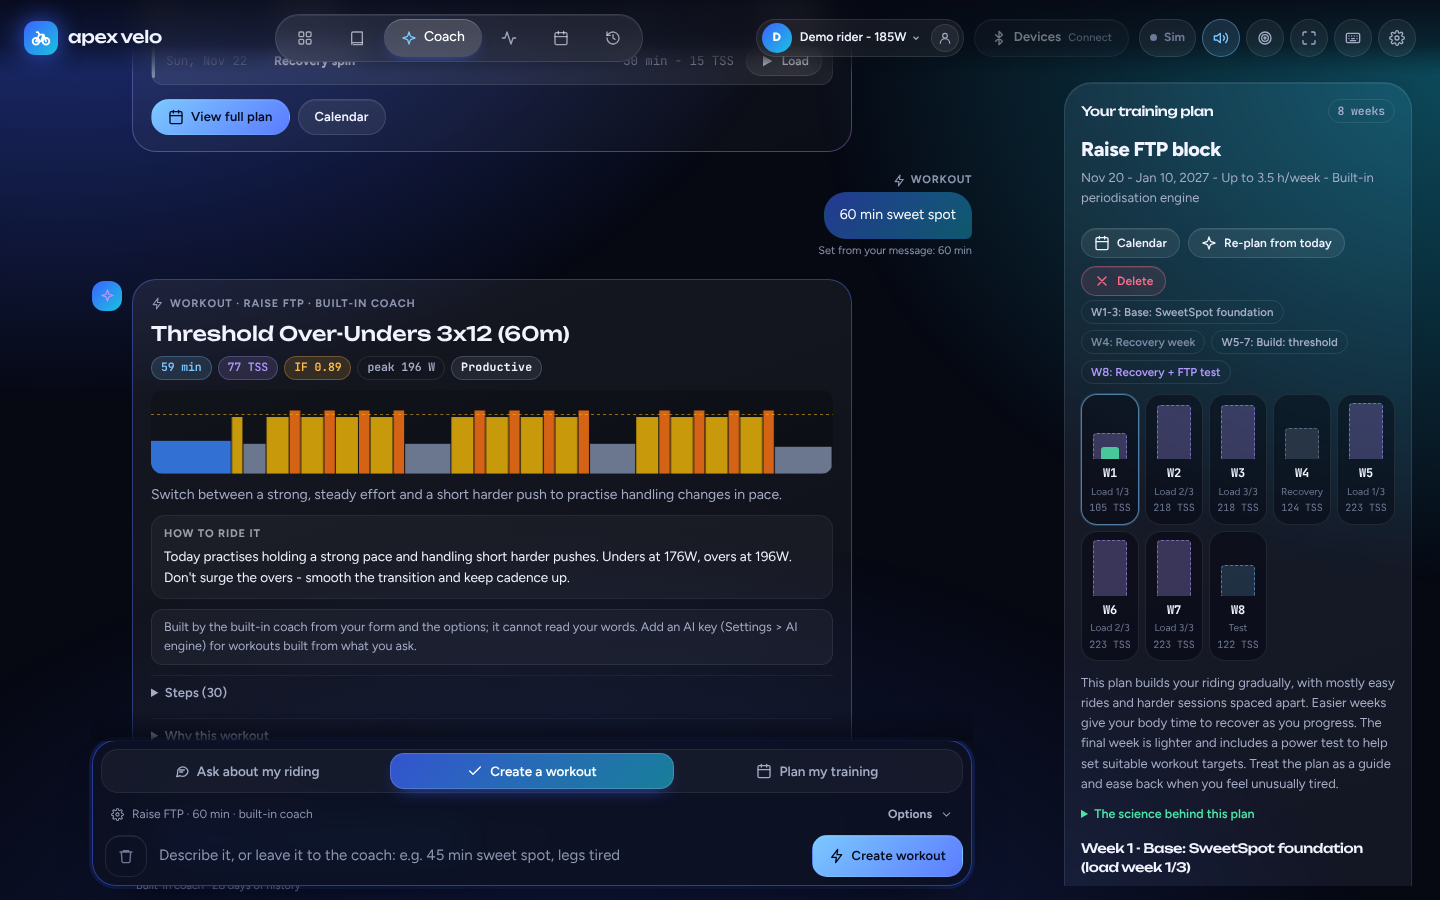
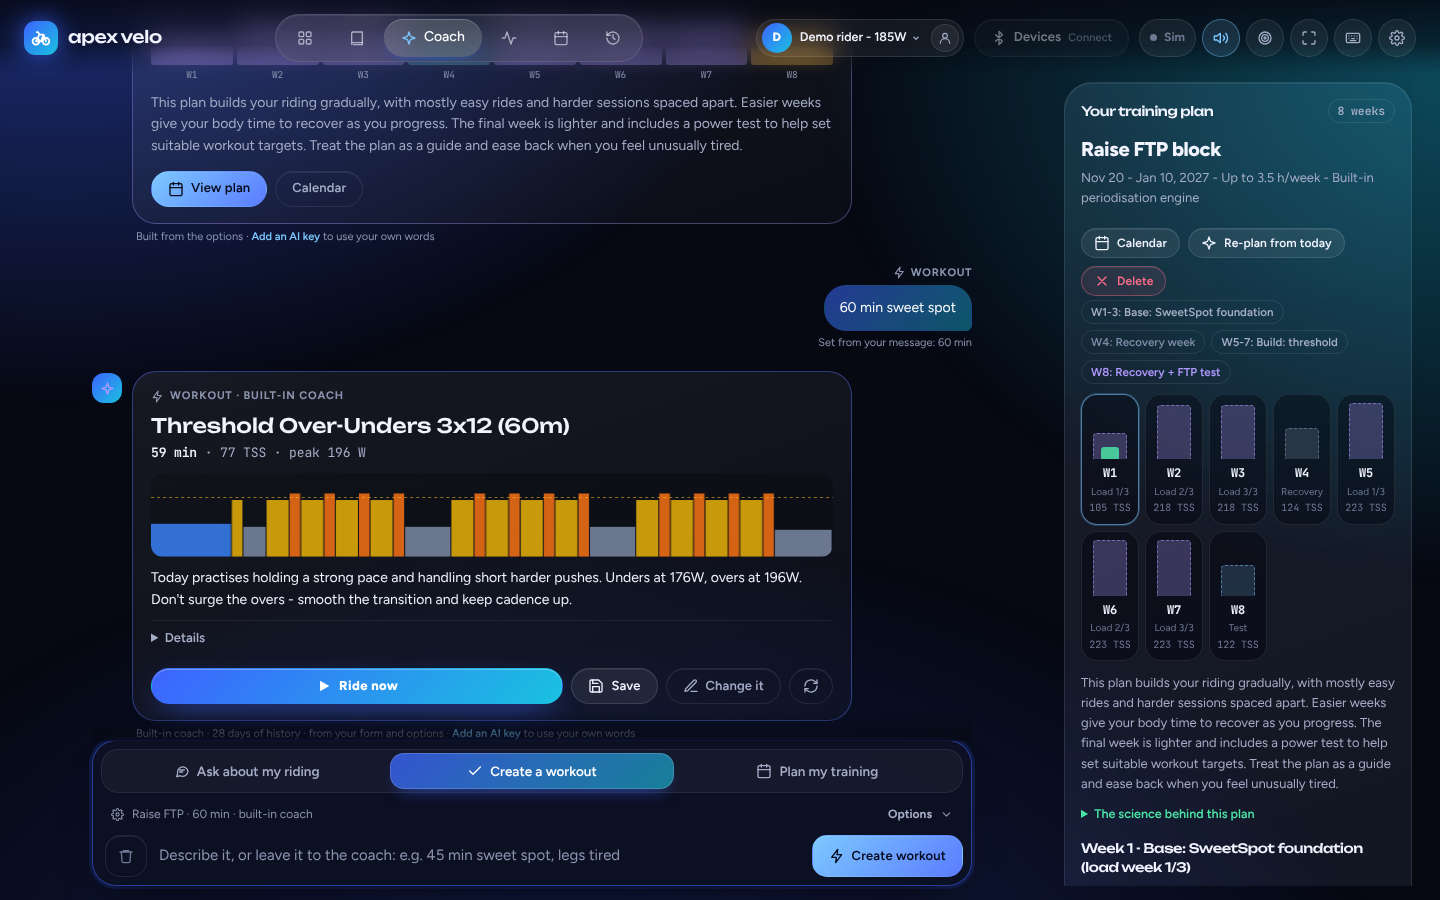
Shorter workout and plan cards in the coach chat
A workout card now shows its name, one line with time, TSS and peak
watts, the profile and how to ride it, then the actions. The
description, steps, why, the science and the coach's reasoning are all
under one Details. Another one is an icon button so Ride now, Save and
Change it fit on one row. A plan card shows its weeks, dates, a bar per
week and a clamped summary with View plan and Calendar; this week's
sessions stay on the plan itself. Without an AI key, a short line under
the card links to the AI settings instead of a boxed notice.

Claude-Session: https://claude.ai/code/session_01SLriGkA2VXTXYSftzxyDfr

diff --git a/js/app-coach-chat.js b/js/app-coach-chat.js
@@ -540,7 +540,8 @@
         this.coachBuildWorkout(text);
       } else if (act === 'to-workout') {
         this.coachBuildWorkout('Build the session you just described as a workout for the trainer.', { focusIndex: i });
-      } else if (act === 'plan') this.openTrainingPlan();
+      } else if (act === 'settings') { if (this.openSettings) this.openSettings('ai'); }
+      else if (act === 'plan') this.openTrainingPlan();
       else if (act === 'calendar') { const b = $('btnBlockToCalendar'); if (b) b.click(); }
     },
 
@@ -649,56 +650,54 @@
         </div>`;
     },
 
+    /**
+     * A workout as a short card: what it is (title, time, load, peak, profile) and how to ride it, then the actions.
+     * The description, steps, why, the evidence and the reasoning are all under one Details.
+     */
     coachWorkoutCardHtml(m, i) {
       const w = m.workout;
       const a = m.assessment || {};
       const ftp = (this.activeProfile && this.activeProfile.ftp) || 200;
       const ivs = w.intervals || [];
       const peak = Math.max(0, ...ivs.map((iv) => Number(iv.pctFtp) || 0));
-      const goal = VeloAiCoach.GOALS[m.goal] ? VeloAiCoach.GOALS[m.goal].label : '';
-      const who = m.source && m.source !== 'offline_heuristic' ? (m.modelLabel || VeloAiCoach.labelFor(m.model)) : 'Built-in coach';
-      const zone = String(a.formZone || '');
-      const zoneKey = /fresh/i.test(zone) ? 'fresh' : /optimal/i.test(zone) ? 'optimal' : /overtrain|overreach/i.test(zone) ? 'overtraining' : /fatigue/i.test(zone) ? 'fatigue' : 'productive';
+      const live = m.source && m.source !== 'offline_heuristic';
+      const who = live ? (m.modelLabel || VeloAiCoach.labelFor(m.model)) : 'Built-in coach';
+      const title = String(w.title || 'Workout').replace(/^AI Coach:\s*/i, '');
       const rows = ivs.map((iv, n) => {
         const z = VeloMetrics.zoneForPct(iv.pctFtp);
         const cad = iv.cadence || (this.getCurrentTargetCadence ? this.getCurrentTargetCadence(iv) : '');
         return `<tr><td class="num">${n + 1}</td><td>${esc(iv.name || 'Step')}</td><td><span class="zone-dot" style="--zc:${z.color}"></span><span class="num">${iv.pctFtp}%</span> <small>${esc(z.short)}</small></td><td class="num">${Math.round((ftp * iv.pctFtp) / 100)} W</td><td class="num">${cad ? `${cad} rpm` : '-'}</td><td class="num">${this.fmtTime(iv.duration)}</td></tr>`;
       }).join('');
-      const why = a.fitnessDiagnosis || a.fatigueStatus
-        ? `<details class="cc-more"><summary>Why this workout</summary>${a.fitnessDiagnosis ? `<p><b>Fitness &amp; load.</b> ${esc(a.fitnessDiagnosis)}</p>` : ''}${a.fatigueStatus ? `<p><b>Fatigue &amp; recovery.</b> ${esc(a.fatigueStatus)}</p>` : ''}</details>` : '';
+      const lead = a.trainingAdvice || w.desc || '';
       const evidence = this.evidenceHtml ? this.evidenceHtml(m.evidence) : '';
-      const warn = m.apiError ? `<p class="cc-warn">${esc(m.apiError)}</p>`
-        : m.wordsUnread ? `<p class="cc-info">Built by the built-in coach from your form and the options; it cannot read your words. Add an AI key (${esc(this.settingsLabel ? this.settingsLabel('ai') : 'Settings > AI engine')}) for workouts built from what you ask.</p>` : '';
-      const title = String(w.title || 'Workout').replace(/^AI Coach:\s*/i, '');
-      const live = m.source && m.source !== 'offline_heuristic';
+      const why = [a.formZone ? `<p><b>Form today.</b> ${esc(a.formZone)}.</p>` : '', a.fitnessDiagnosis ? `<p><b>Fitness &amp; load.</b> ${esc(a.fitnessDiagnosis)}</p>` : '', a.fatigueStatus ? `<p><b>Fatigue &amp; recovery.</b> ${esc(a.fatigueStatus)}</p>` : ''].join('');
+      const details = [
+        a.trainingAdvice && w.desc ? `<p>${esc(w.desc)}</p>` : '',
+        `<h4>Steps (${ivs.length}) · IF ${esc(w.if)}</h4><div class="table-scroll"><table class="data-table cc-steps"><thead><tr><th>#</th><th>Step</th><th>Intensity</th><th>Target</th><th>Cadence</th><th>Time</th></tr></thead><tbody>${rows}</tbody></table></div>`,
+        why ? `<h4>Why this workout</h4>${why}` : '',
+        evidence ? `<h4>The science behind this</h4>${evidence}` : '',
+        m.thoughts ? `<h4>Coach reasoning</h4><div class="thinking-trace-body md">${md(m.thoughts)}</div>` : ''
+      ].join('');
+      const unread = m.wordsUnread ? ` · from your form and options · <button type="button" class="link-btn" data-coach-act="settings" data-i="${i}">Add an AI key</button> to use your own words` : '';
       return `<article class="coach-card coach-workout">
-          <div class="cc-eyebrow">${icon('i-bolt', 'ic ic-xs')}Workout${goal ? ` · ${esc(goal)}` : ''} · ${esc(who)}</div>
+          <div class="cc-eyebrow">${icon('i-bolt', 'ic ic-xs')}Workout · ${esc(who)}</div>
           <h3 class="cc-title">${esc(title)}</h3>
-          <div class="cc-chips num">
-            <span class="chip chip-accent">${esc(w.durationMin)} min</span>
-            <span class="chip chip-violet" data-term-tip="tss">${esc(w.tss)} TSS</span>
-            <span class="chip chip-amber" data-term-tip="if">IF ${esc(w.if)}</span>
-            <span class="chip chip-ghost">peak ${Math.round((ftp * peak) / 100)} W</span>
-            ${zone ? `<span class="ai-coach-status-badge form-badge form-${zoneKey}">${esc(zone)}</span>` : ''}
-          </div>
+          <p class="cc-meta num"><b>${esc(w.durationMin)} min</b> · <span data-term-tip="tss">${esc(w.tss)} TSS</span> · peak ${Math.round((ftp * peak) / 100)} W</p>
           <canvas class="cc-profile" data-coach-profile="${i}" aria-hidden="true"></canvas>
-          ${w.desc ? `<p class="cc-desc">${esc(w.desc)}</p>` : ''}
-          ${a.trainingAdvice ? `<div class="cc-advice"><span class="ctrl-label ctrl-label-accent">How to ride it</span><p>${esc(a.trainingAdvice)}</p></div>` : ''}
-          ${warn}
-          <details class="cc-more"><summary>Steps (${ivs.length})</summary><div class="table-scroll"><table class="data-table cc-steps"><thead><tr><th>#</th><th>Step</th><th>Intensity</th><th>Target</th><th>Cadence</th><th>Time</th></tr></thead><tbody>${rows}</tbody></table></div></details>
-          ${why}
-          ${evidence ? `<details class="cc-more evidence-box"><summary>The science behind this</summary>${evidence}</details>` : ''}
-          ${m.thoughts ? `<details class="cc-more"><summary>Coach reasoning</summary><div class="thinking-trace-body md">${md(m.thoughts)}</div></details>` : ''}
+          ${lead ? `<p class="cc-lead">${esc(lead)}</p>` : ''}
+          ${m.apiError ? `<p class="cc-warn">${esc(m.apiError)}</p>` : ''}
+          <details class="cc-more"><summary>Details</summary>${details}</details>
           <div class="btn-row cc-actions">
             <button type="button" class="btn btn-start" data-coach-act="ride" data-i="${i}">${icon('i-play')}Ride now</button>
             <button type="button" class="btn" data-coach-act="save" data-i="${i}"${m.saved ? ' disabled' : ''}>${icon('i-save')}${m.saved ? 'Saved' : 'Save'}</button>
             <button type="button" class="btn btn-ghost" data-coach-act="change" data-i="${i}">${icon('i-edit')}Change it</button>
-            <button type="button" class="btn btn-ghost" data-coach-act="again" data-i="${i}">${icon('i-refresh')}Another one</button>
+            <button type="button" class="btn btn-ghost cc-icon-btn" data-coach-act="again" data-i="${i}" aria-label="Another one" title="Another one">${icon('i-refresh')}</button>
           </div>
         </article>
-        <div class="ask-meta"><span>${esc(who)}${live && m.thinkingLevel ? ` · ${esc(m.thinkingLevel)}` : ''}${live && m.elapsedMs ? ` · ${(m.elapsedMs / 1000).toFixed(1)} s` : ''}${m.lookbackDays ? ` · ${esc(m.lookbackDays)} days of history` : ''}</span></div>`;
+        <div class="ask-meta"><span>${esc(who)}${live && m.thinkingLevel ? ` · ${esc(m.thinkingLevel)}` : ''}${live && m.elapsedMs ? ` · ${(m.elapsedMs / 1000).toFixed(1)} s` : ''}${m.lookbackDays ? ` · ${esc(m.lookbackDays)} days of history` : ''}${unread}</span></div>`;
     },
 
+    /** A plan as a short card: what it is, its weeks at a glance and the summary; the sessions are on the plan itself. */
     coachPlanCardHtml(m, i) {
       const p = m.plan || {};
       const bp = this.blockPlanner;
@@ -706,32 +705,19 @@
       const weeks = Array.isArray(p.weeks) ? p.weeks : [];
       const maxT = Math.max(1, ...weeks.map((w) => Number(w.plannedTss) || 0));
       const bars = weeks.map((w) => `<span class="cc-wk ${esc(w.type)}" title="Week ${esc(w.index)}: ${esc(w.phase || w.type)} - ${esc(w.plannedTss)} TSS"><i style="height:${Math.max(8, ((Number(w.plannedTss) || 0) / maxT) * 100)}%"></i><small class="num">W${esc(w.index)}</small></span>`).join('');
-      let week = '';
-      if (live) {
-        const today = VeloBlockPlanner.today();
-        const cur = bp.weekOf(today) || bp.block.weeks.find((w) => w.start > today) || bp.block.weeks[0];
-        if (cur && cur.sessions.length && this.blockSessionRow) week = `<div class="cc-week"><span class="ctrl-label">Week ${esc(cur.index)} · ${esc(cur.phase)}</span><div class="block-sessions">${cur.sessions.map((s) => this.blockSessionRow(s, today)).join('')}</div></div>`;
-      }
-      const warn = m.apiError ? `<p class="cc-warn">${esc(m.apiError)}</p>`
-        : m.wordsUnread ? `<p class="cc-info">Built by the built-in periodisation engine from the options; it cannot read your words. Add an AI key (${esc(this.settingsLabel ? this.settingsLabel('ai') : 'Settings > AI engine')}) for plans shaped by what you ask.</p>` : '';
+      const unread = m.wordsUnread ? `<div class="ask-meta"><span>Built from the options · <button type="button" class="link-btn" data-coach-act="settings" data-i="${i}">Add an AI key</button> to use your own words</span></div>` : '';
       return `<article class="coach-card coach-plan">
           <div class="cc-eyebrow">${icon('i-calendar', 'ic ic-xs')}Training plan · ${esc(p.by || '')}</div>
           <h3 class="cc-title">${esc(p.title || 'Training plan')}</h3>
-          <div class="cc-chips num">
-            <span class="chip chip-accent">${esc(p.weekCount)} weeks</span>
-            <span class="chip chip-ghost">${esc(fmtDay(p.startDate))} - ${esc(fmtDay(p.endDate))}</span>
-            <span class="chip chip-ghost">${esc(p.hours || '')}</span>
-            ${live ? '' : '<span class="chip chip-ghost">Replaced</span>'}
-          </div>
+          <p class="cc-meta num"><b>${esc(p.weekCount)} weeks</b> · ${esc(fmtDay(p.startDate))} - ${esc(fmtDay(p.endDate))}${p.hours ? ` · ${esc(p.hours)}` : ''}</p>
           <div class="cc-weeks" aria-hidden="true">${bars}</div>
-          ${p.summary ? `<p class="cc-desc">${esc(p.summary)}</p>` : ''}
-          ${warn}
-          ${week}
+          ${p.summary ? `<p class="cc-lead cc-clamp">${esc(p.summary)}</p>` : ''}
+          ${m.apiError ? `<p class="cc-warn">${esc(m.apiError)}</p>` : ''}
           ${live ? `<div class="btn-row cc-actions">
-            <button type="button" class="btn btn-primary" data-coach-act="plan" data-i="${i}">${icon('i-calendar')}View full plan</button>
-            <button type="button" class="btn" data-coach-act="calendar" data-i="${i}">Calendar</button>
+            <button type="button" class="btn btn-primary" data-coach-act="plan" data-i="${i}">${icon('i-calendar')}View plan</button>
+            <button type="button" class="btn btn-ghost" data-coach-act="calendar" data-i="${i}">Calendar</button>
           </div>` : '<p class="cc-note">A newer plan replaced this one.</p>'}
-        </article>`;
+        </article>${unread}`;
     }
   });
 })();

diff --git a/css/style.css b/css/style.css
@@ -2332,32 +2332,32 @@ a.btn, a.btn:hover { text-decoration: none; }
 .coach-plan { border-color: rgba(177, 153, 255, 0.35); }
 .cc-eyebrow { display: flex; align-items: center; gap: 6px; font-size: 11px; font-weight: 700; letter-spacing: .08em; text-transform: uppercase; color: var(--coach-muted); }
 .cc-title { margin: 0; font-family: var(--font-display); font-weight: 500; font-size: 20px; line-height: 1.2; color: var(--text-1); }
-.cc-chips { display: flex; flex-wrap: wrap; gap: 6px; align-items: center; }
+.cc-meta { margin: -4px 0 0; font-size: 13px; color: var(--text-2); }
+.cc-meta b { color: var(--text-1); font-weight: 600; }
 .cc-profile { display: block; width: 100%; height: 84px; border-radius: 12px; background: rgba(0, 0, 0, 0.18); }
-.cc-desc { margin: 0; font-size: 14px; line-height: 1.55; color: var(--text-2); }
-.cc-advice { padding: 10px 12px; border-radius: 14px; background: rgba(255, 255, 255, 0.04); border: 1px solid rgba(255, 255, 255, 0.06); }
-.cc-advice p { margin: 4px 0 0; font-size: 13.5px; line-height: 1.55; color: var(--text-1); }
-.cc-warn, .cc-info { margin: 0; padding: 8px 12px; border-radius: 12px; font-size: 12.5px; line-height: 1.5; }
-.cc-warn { background: var(--amber-soft); border: 1px solid rgba(255, 190, 74, 0.3); color: var(--text-1); }
-.cc-info { background: rgba(255, 255, 255, 0.04); border: 1px solid rgba(255, 255, 255, 0.08); color: var(--text-2); }
+.cc-lead { margin: 0; font-size: 14px; line-height: 1.55; color: var(--text-1); }
+.cc-clamp { display: -webkit-box; -webkit-line-clamp: 3; line-clamp: 3; -webkit-box-orient: vertical; overflow: hidden; color: var(--text-2); }
+.cc-warn { margin: 0; padding: 8px 12px; border-radius: 12px; font-size: 12.5px; line-height: 1.5; background: var(--amber-soft); border: 1px solid rgba(255, 190, 74, 0.3); color: var(--text-1); }
 .cc-note { margin: 0; font-size: 12.5px; color: var(--coach-muted); }
 .cc-more { font-size: 13px; color: var(--text-2); border-top: 1px solid rgba(255, 255, 255, 0.06); padding-top: 2px; }
 .cc-more > summary { cursor: pointer; font-weight: 600; color: var(--text-2); padding: 6px 0; }
 .cc-more > summary:hover { color: var(--text-1); }
 .cc-more[open] > summary { margin-bottom: 4px; }
 .cc-more p { margin: 0 0 8px; line-height: 1.55; }
+.cc-more h4 { margin: 14px 0 6px; font-size: 11px; font-weight: 700; letter-spacing: .08em; text-transform: uppercase; color: var(--coach-muted); }
+.cc-more h4:first-of-type { margin-top: 6px; }
 .cc-more .evidence-list { margin-top: 4px; }
 .cc-steps { font-size: 12.5px; }
 .cc-actions { margin: 4px 0 0; flex-wrap: wrap; }
 .cc-actions .btn-start { flex: 1 1 auto; justify-content: center; }
+.cc-actions .cc-icon-btn { flex: 0 0 auto; width: 44px; min-width: 44px; padding: 0; justify-content: center; }
+.cc-actions .cc-icon-btn .ic { margin: 0; }
 .cc-weeks { display: flex; align-items: flex-end; gap: 4px; height: 64px; }
 .cc-wk { flex: 1; display: flex; flex-direction: column; justify-content: flex-end; align-items: center; gap: 3px; height: 100%; min-width: 0; }
 .cc-wk i { display: block; width: 100%; border-radius: 6px 6px 3px 3px; background: linear-gradient(180deg, var(--violet), color-mix(in srgb, var(--violet) 45%, transparent)); }
 .cc-wk.recovery i { background: rgba(125, 211, 252, 0.4); }
 .cc-wk.test i { background: linear-gradient(180deg, var(--amber, #ffbe4a), rgba(255, 190, 74, 0.4)); }
 .cc-wk small { font-size: 9.5px; color: var(--coach-muted); }
-.cc-week { display: flex; flex-direction: column; gap: 6px; }
-.cc-week .block-sessions { margin: 0; }
 .coach-result .ask-body { max-width: 720px; }
 
 /* The rail: today's session, the plan, and the numbers the coach reads. */
@@ -2412,7 +2412,9 @@ a.btn, a.btn:hover { text-decoration: none; }
   .coach-intent { padding: 4px 6px; gap: 6px; }
   .coach-user-col { max-width: 88%; }
   .coach-card { padding: 14px; border-radius: 20px; }
-  .cc-actions .btn { flex: 1 1 calc(50% - 6px); justify-content: center; }
+  .cc-actions .btn { flex: 1 1 0; justify-content: center; }
+  .cc-actions .btn-start { flex-basis: 100%; }
+  .cc-actions .cc-icon-btn { flex: 0 0 44px; }
   .coach-cta { flex-wrap: wrap; }
   .coach-cta-go { width: 100%; justify-content: center; }
 }

diff --git a/mobile/web/apex-train.css b/mobile/web/apex-train.css
@@ -120,8 +120,9 @@ body[data-av-tab="train"] #view-ai-coach .coach-start-chips .ask-chip { display:
 body[data-av-tab="train"] #view-ai-coach .ask-avatar { display: none; }
 body[data-av-tab="train"] #view-ai-coach .coach-card { padding: 14px; }
 body[data-av-tab="train"] #view-ai-coach .cc-title { font-size: 18px; }
-body[data-av-tab="train"] #view-ai-coach .cc-actions .btn { flex: 1 1 calc(50% - 6px); justify-content: center; min-height: 48px; }
+body[data-av-tab="train"] #view-ai-coach .cc-actions .btn { flex: 1 1 0; justify-content: center; min-height: 48px; }
 body[data-av-tab="train"] #view-ai-coach .cc-actions .btn-start { flex-basis: 100%; }
+body[data-av-tab="train"] #view-ai-coach .cc-actions .cc-icon-btn { flex: 0 0 48px; width: 48px; }
 body[data-av-tab="train"] #view-ai-coach .ask-meta { gap: 4px 12px; }
 body[data-av-tab="train"] #view-ai-coach .ask-meta .link-btn { font-size: 13px; padding: 0 4px; }
 body[data-av-tab="train"] #view-ai-coach .coach-chip-action { min-height: 44px; padding: 0 14px; font-size: 13px; }

diff --git a/sw.js b/sw.js
@@ -1,6 +1,6 @@
 // APEX VELO // LAB service worker - network-first for app files so updates are never
 // masked by a stale cache; the cache is only a fallback when offline.
-const CACHE_NAME = 'apex-velo-cache-v63';
+const CACHE_NAME = 'apex-velo-cache-v64';
 const CORE = [
   './css/ftp-history.css', './js/velo-ftp-history.js', './js/velo-ftp-model.js', './js/velo-ride-summary.js', './js/app-ftp-history.js',
   './js/phone-zen.js',

diff --git a/docs/FEATURES.md b/docs/FEATURES.md
@@ -291,11 +291,11 @@ Everything AI happens in one conversation on the **Coach** tab (on the phone, th
 
 Type in your own words and press the button (Ask / Create workout / Build plan). An empty message with **Create a workout** ticked leaves it to the coach: today's session from your form alone.
 
-- **Results land in the thread.** A workout is a card with its profile, duration, TSS, IF and peak watts, *How to ride it*, and under it the steps, *Why this workout* (fitness and fatigue), *The science behind this* and the coach's reasoning. **Ride now** loads it into the cockpit (on the phone it opens the ride screen and starts), **Save** adds it to your library, **Change it** ticks Create a workout so your next message ("shorter", "no VO2") changes it, and **Another one** builds a fresh one from the same request. A plan is a card with its weeks, summary and this week's sessions (each with **Load**), and **View full plan** / **Calendar**.
+- **Results land in the thread as short cards.** A workout card shows its name, time, TSS and peak watts, the profile and one line on how to ride it; one **Details** holds the description, the steps, *Why this workout* (fitness and fatigue), *The science behind this* and the coach's reasoning. **Ride now** loads it into the cockpit (on the phone it opens the ride screen and starts), **Save** adds it to your library, **Change it** ticks Create a workout so your next message ("shorter", "no VO2") changes it, and the refresh button (**Another one**) builds a fresh one from the same request. A plan card shows its weeks and dates, a bar per week and the summary, with **View plan** and **Calendar**; the sessions are on the plan itself.
 - **Everything connects.** Each turn sees the chat so far: a question can follow a workout ("why that one?"), **Make it a workout** under an answer that describes a session builds it, and "make it shorter" after a workout changes that one. Workouts and plans the coach built count as its turns when you ask the next question.
 - **Your words set the options.** A session length in the message ("60 min", "1.5 h"; never an interval such as "2x20 min") sets the workout length; weeks ("10 weeks"), weekly hours ("6 hours a week"), rides a week ("4 rides a week"), days off ("no rides on Friday", "except Tuesday and Thursday") and a long-ride day ("long ride on Saturday") set the plan. The line under the ticks shows what will be built, with what came from your message in bold, and your message says *Set from your message* afterwards.
 - **Options** (the line under the switch; on the phone, the gear beside it) hold the rest: the period the coach reads for questions and *What the AI sees*; the goal (FTP, Longevity, VO2max or Balanced, shared by workouts and plans), length, focus and history look-back for a workout; the weeks, ride days, long-ride day, start and weekly hours for a plan.
-- **Without an AI key** questions need one, but workouts and plans are still built by the offline engine from your form and the options (it cannot read your words, and the card says so).
+- **Without an AI key** questions need one, but workouts and plans are still built by the offline engine from your form and the options (it cannot read your words; the line under the card says so and links to the AI settings).
 - **Ways in.** The Workouts tab's **Create with the coach**, a ride's **Discuss with the coach** (the question is ready, the period covers the ride), the plan card beside the chat and, on the phone, the line above the chat (**Workout for today** builds one in a tap) all lead here; on the phone the chat is the Train tab's home. Clicking a planned session on the Calendar opens the plan.
 - **Beside the chat** (below it on narrow screens; on the phone, Train's **Plan** page) are today's session from your plan, the plan itself with its suggestions, re-plan and delete, and **What the coach sees**: readiness, form, fitness, fatigue, the last 7 days, FTP, volume, intensity mix, last hard and long ride and power profile.
 - **Goals:** FTP, Longevity (Z2/durability, a weekly 4 x 4 and strength work), VO2max and Balanced.
